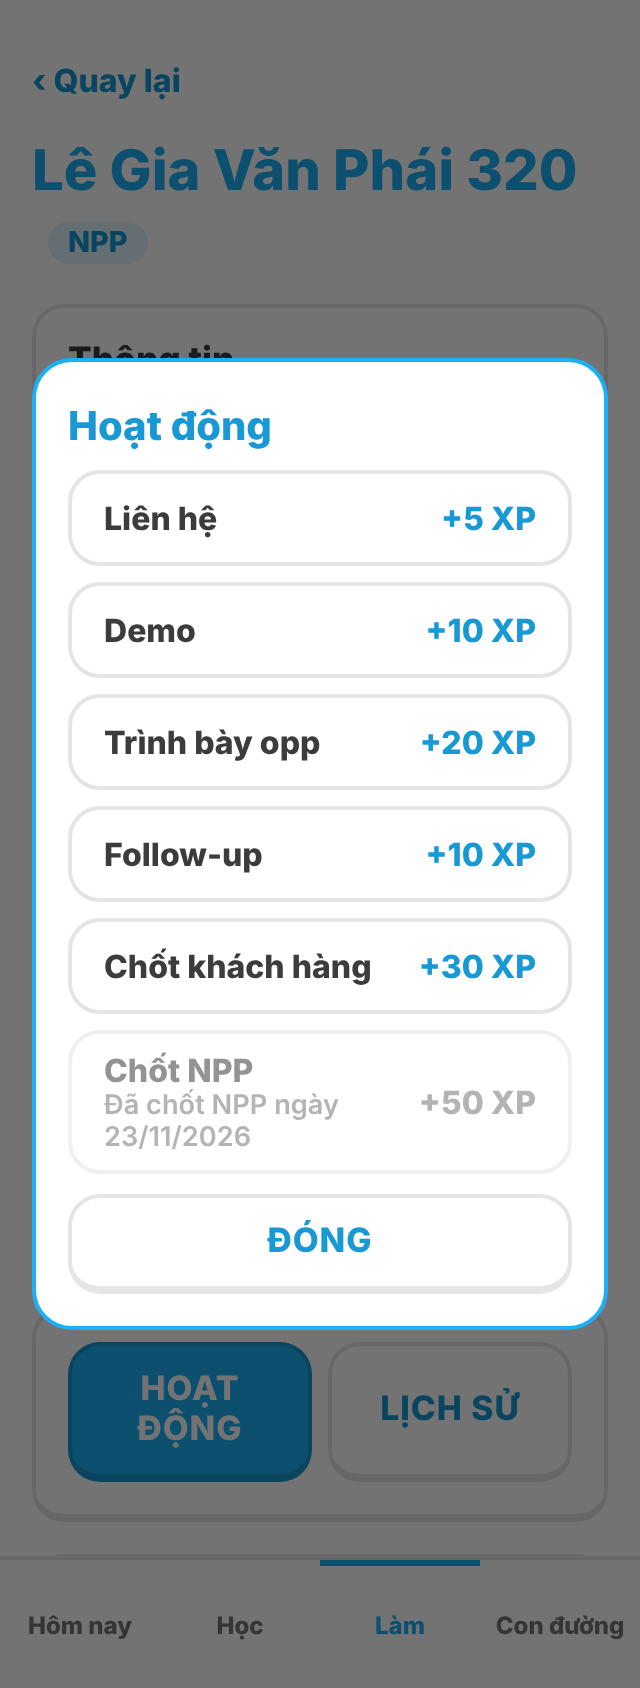
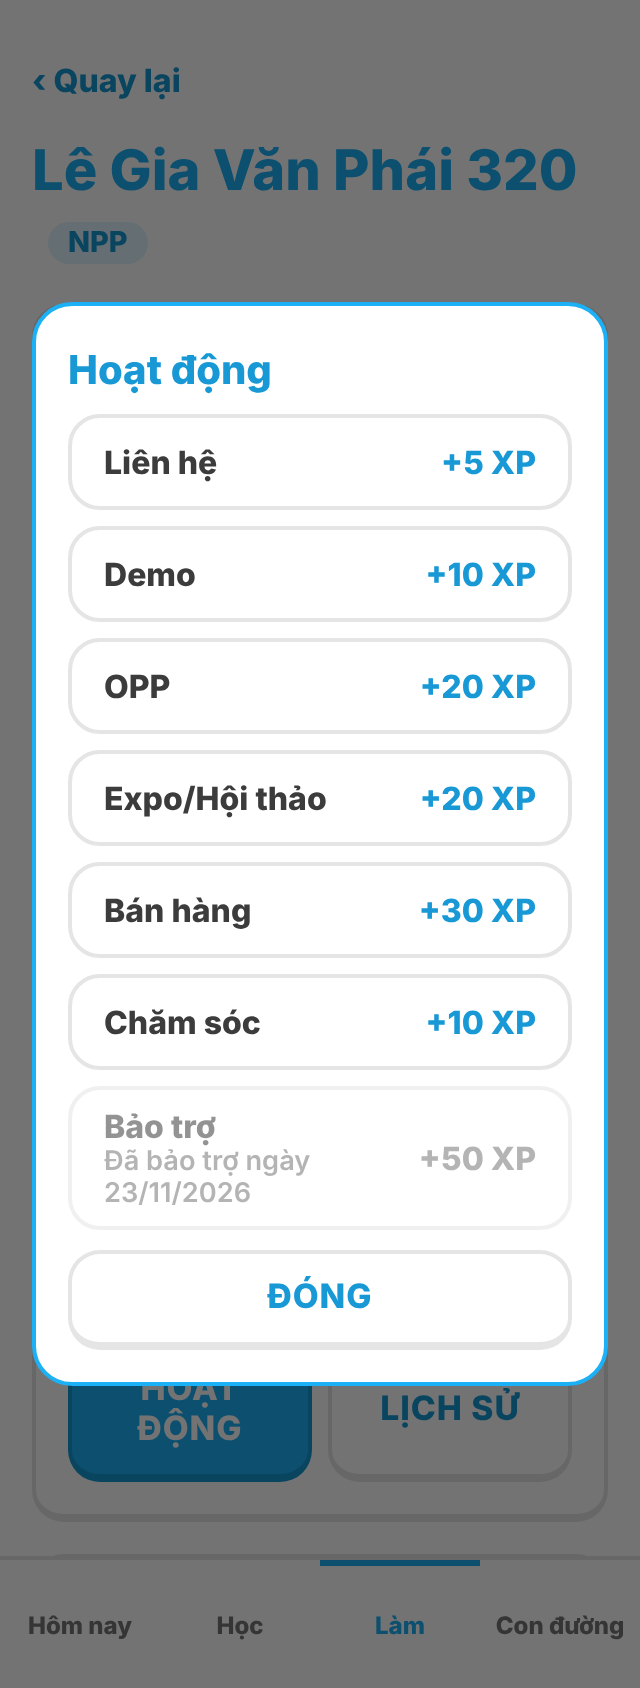
feat: familiar activity names and a new Expo/Hội thảo task
Liên hệ, Demo, OPP, Expo/Hội thảo (new, 20 XP, repeatable), Bán hàng (was
Chốt khách hàng, KH label), Chăm sóc (was Follow-up), Bảo trợ (was Chốt NPP,
one-time, NPP label). Task ids are unchanged, so existing data shows the new
names and XP and milestones stay the same.

GDD: design/gdd/crm.md rule 2 and Tuning Knobs (user decision 2026-11-23)

Claude-Session: https://claude.ai/code/session_01N8trRukAdUtow4mzvQDbn7

Changed region(s): [[0.0312, 0.154, 0.9688, 0.8318], [0.6562, 0.6469, 0.8438, 0.7085]]

diff --git a/tests/unit/people/people-tasks.test.ts b/tests/unit/people/people-tasks.test.ts
@@ -55,13 +55,14 @@ const one = (events: LogEvent[], id = 'a'): Person => {
 const pendingIds = (p: Person): string[] => pendingTasks(p, CONFIG).map((t) => t.id);
 
 describe('config parsing', () => {
-  it('reads the six tasks and the country codes with no problems', () => {
+  it('reads the seven tasks (renamed 2026-11-23, Expo/Hội thảo added) and the country codes with no problems', () => {
     expect(CONFIG.tasks?.map((t) => [t.id, t.xp, t.repeatable, t.label ?? null])).toEqual([
       ['contact', 5, true, null],
       ['demo', 10, true, null],
       ['opp', 20, true, null],
-      ['follow_up', 10, true, null],
+      ['expo', 20, true, null],
       ['new_customer', 30, true, 'KH'],
+      ['follow_up', 10, true, null],
       ['new_npp', 50, false, 'NPP'],
     ]);
     expect(CONFIG.countryCodes?.[0]).toEqual({ code: '+84', name: 'Việt Nam' });
@@ -104,13 +105,13 @@ describe('config parsing', () => {
 });
 
 describe('pendingTasks', () => {
-  it('lists all six for a new person, in config order', () => {
-    expect(pendingIds(one([added('a')]))).toEqual(['contact', 'demo', 'opp', 'follow_up', 'new_customer', 'new_npp']);
+  it('lists all seven for a new person, in config order', () => {
+    expect(pendingIds(one([added('a')]))).toEqual(['contact', 'demo', 'opp', 'expo', 'new_customer', 'follow_up', 'new_npp']);
   });
 
   it('keeps every done task in the list (crm rule 4, 2026-11-22)', () => {
     const p = one([added('a'), task('a', 'contact'), task('a', 'follow_up'), task('a', 'follow_up'), task('a', 'new_npp')]);
-    expect(pendingIds(p)).toEqual(['contact', 'demo', 'opp', 'follow_up', 'new_customer', 'new_npp']);
+    expect(pendingIds(p)).toEqual(['contact', 'demo', 'opp', 'expo', 'new_customer', 'follow_up', 'new_npp']);
   });
 
   it('keeps the task after the completion is compensated', () => {
@@ -123,7 +124,7 @@ describe('pendingTasks', () => {
     const p = one([added('a'), ev('person_archived', { personId: 'a' })]);
     expect(pendingIds(p)).toEqual([]);
     const q = one([added('a'), ev('activity_logged', { activityType: 'gone', taskId: 'gone', xp: 1, personId: 'a' })]);
-    expect(pendingIds(q)).toHaveLength(6);
+    expect(pendingIds(q)).toHaveLength(7);
   });
 });
 
@@ -254,7 +255,7 @@ describe('legacy migration', () => {
     expect(p.label).toBe('KH');
     expect(p.doneTaskIds).toEqual(expect.arrayContaining(['contact', 'demo', 'opp']));
     // Done tasks stay in the list (crm rule 4, 2026-11-22).
-    expect(pendingIds(p)).toEqual(['contact', 'demo', 'opp', 'follow_up', 'new_customer', 'new_npp']);
+    expect(pendingIds(p)).toEqual(['contact', 'demo', 'opp', 'expo', 'new_customer', 'follow_up', 'new_npp']);
   });
 
   it('downline gives NPP, other known stages give no label, unknown stages are ignored', () => {
@@ -368,7 +369,7 @@ describe('person_restored and phone', () => {
     expect(one([added('a'), arch]).archived).toBe(true);
     expect(one([added('a'), arch, rest]).archived).toBe(false);
     expect(one([added('a'), arch, rest, ev('person_archived', { personId: 'a' }, D4)]).archived).toBe(true);
-    expect(pendingIds(one([added('a'), arch, rest]))).toHaveLength(6);
+    expect(pendingIds(one([added('a'), arch, rest]))).toHaveLength(7);
   });
 
   it('phone: initial from person_added, latest person_updated wins, empty number clears', () => {

diff --git a/src/ui/strings.ts b/src/ui/strings.ts
@@ -133,8 +133,8 @@ export const STRINGS = {
   filterArchived: 'Đã lưu trữ',
   filterBarLabel: 'Lọc danh bạ',
   emptyAllTitle: 'Chưa có ai trong danh bạ của bạn',
-  emptyKhBody: 'Chưa có khách hàng nào. Mở một người và bấm "Chốt khách hàng" khi họ mua.',
-  emptyNppBody: 'Chưa có NPP nào. Mở một người và bấm "Chốt NPP" khi họ tham gia đội nhóm.',
+  emptyKhBody: 'Chưa có khách hàng nào. Mở một người và bấm "Hoạt động" → "Bán hàng" khi họ mua.',
+  emptyNppBody: 'Chưa có NPP nào. Mở một người và bấm "Hoạt động" → "Bảo trợ" khi họ tham gia đội nhóm.',
   emptyArchivedBody: 'Chưa có ai được lưu trữ.',
   labelKh: 'KH',
   labelNpp: 'NPP',

diff --git a/design/gdd/crm.md b/design/gdd/crm.md
@@ -34,12 +34,13 @@ Một Danh bạ duy nhất. Mỗi người có một danh sách **việc cần l
    |---|---|---|---|---|
    | `contact` | Liên hệ | 5 | có | – |
    | `demo` | Demo | 10 | có | – |
-   | `opp` | Trình bày opp | 20 | có | – |
-   | `follow_up` | Follow-up | 10 | có | – |
-   | `new_customer` | Chốt khách hàng | 30 | có | KH |
-   | `new_npp` | Chốt NPP | 50 | không | NPP |
+   | `opp` | OPP | 20 | có | – |
+   | `expo` | Expo/Hội thảo | 20 | có | – |
+   | `new_customer` | Bán hàng | 30 | có | KH |
+   | `follow_up` | Chăm sóc | 10 | có | – |
+   | `new_npp` | Bảo trợ | 50 | không | NPP |
 
-   Từ 2026-11-22 mọi việc đều làm lại được (quyết định của người dùng: có việc làm nhiều lần với cùng một người), **trừ Chốt NPP** chỉ làm một lần (quyết định 2026-11-23).
+   Từ 2026-11-22 mọi việc đều làm lại được (quyết định của người dùng: có việc làm nhiều lần với cùng một người), **trừ Chốt NPP** chỉ làm một lần (quyết định 2026-11-23). Tên đổi ngày 2026-11-23 cho quen thuộc (Trình bày opp → OPP, Chốt khách hàng → Bán hàng, Follow-up → Chăm sóc, Chốt NPP → Bảo trợ) và thêm việc mới Expo/Hội thảo; `id` giữ nguyên nên dữ liệu cũ hiện tên mới, XP và mốc không đổi. Trong tài liệu này, "chốt KH" là việc Bán hàng và "chốt NPP" là việc Bảo trợ.
 
    Id `new_customer` được giữ để mốc Con đường (`stages[].milestones`) không đổi.
 3. **Sự kiện** (đều chỉ thêm):
@@ -50,7 +51,7 @@ Một Danh bạ duy nhất. Mỗi người có một danh sách **việc cần l
    - `activity_reassigned {activityId, personId}` (gán lại hoạt động cũ chưa gắn ai)
    - `person_stage_changed {personId, from, to, xp}`: **chỉ còn là sự kiện cũ**, vẫn đọc được và vẫn tính XP; app không ghi thêm.
    - Giai đoạn 2: `person_merged {keepId, mergedId, amwayCode?}`, `person_not_duplicate {personIds: [a, b]}`, `person_transferred_out {personId, name}` (do server ghi khi gộp mã). Tách liên hệ = sự kiện bù của `person_merged` (`payload.compensates`). Không sự kiện nào trong nhóm này có `xp`.
-4. **Hoàn thành một việc** = ghi `activity_logged {activityType: taskId, taskId, xp: xp của việc, personId}`. Mọi việc luôn còn trong danh sách; **mỗi lần hoàn thành cộng đủ XP của việc** (quyết định 2026-11-22). Việc `repeatable: false` (chỉ Chốt NPP, 2026-11-23) làm được một lần: khi đã có một lần chưa bị hoàn tác, dòng của nó vẫn hiện nhưng mờ, không bấm được, kèm ghi chú "Đã chốt NPP ngày …" (ngày lên NPP); hoàn tác lần chốt đó thì bấm lại được. Người đã lưu trữ không hoàn thành được việc. Không còn gợi ý đổi giai đoạn.
+4. **Hoàn thành một việc** = ghi `activity_logged {activityType: taskId, taskId, xp: xp của việc, personId}`. Mọi việc luôn còn trong danh sách; **mỗi lần hoàn thành cộng đủ XP của việc** (quyết định 2026-11-22). Việc `repeatable: false` (chỉ Chốt NPP, 2026-11-23) làm được một lần: khi đã có một lần chưa bị hoàn tác, dòng của nó vẫn hiện nhưng mờ, không bấm được, kèm ghi chú "Đã bảo trợ ngày …" (ngày lên NPP); hoàn tác lần chốt đó thì bấm lại được. Người đã lưu trữ không hoàn thành được việc. Không còn gợi ý đổi giai đoạn.
    - **Nhãn khi chốt lại:** chốt KH cho người đã có KH hoặc NPP thì nhãn không đổi; chốt NPP lại thì vẫn giữ ngày lên NPP của lần chốt NPP đầu tiên chưa bị hoàn tác. Hoàn tác một lần chốt thì nhãn và ngày tính lại từ các lần chốt còn lại.
    - **Mốc Con đường đếm người:** mốc "Khách hàng mới" (`stages[].milestones` với `activityType: new_customer`) đếm số **người khác nhau** có lần chốt KH chưa bị hoàn tác, không đếm số lần bấm, nên dữ liệu hiện có không đổi con số.
 5. **Hoàn tác** một việc bằng sự kiện bù `payload.compensates` (như cách hoàn tác hoạt động): việc hiện lại, XP trừ lại, nhãn được tính lại.
@@ -201,8 +202,8 @@ Công thức tầng, nhánh, điểm sâu và 30x30x4x4 thuộc giai đoạn 2 v
 | `target30x30.contactsTarget` | 250 | 1–5000 | mốc phụ "liên hệ" |
 | `target30x30.customersTarget` | 30 | 1–999 | ngưỡng KH của "đạt 30x30" |
 | `target30x30.f1Target` | 30 | 1–999 | ngưỡng NPP F1 của "đạt 30x30" |
-| `personTasks[].xp` | 5 / 10 / 20 / 10 / 30 / 50 | 0–200 | XP mỗi việc |
-| `personTasks[].repeatable` | mọi việc (từ 2026-11-22) | true/false | việc còn trong danh sách sau khi làm |
+| `personTasks[].xp` | 5 / 10 / 20 / 20 / 30 / 10 / 50 (theo thứ tự luật 2) | 0–200 | XP mỗi việc |
+| `personTasks[].repeatable` | mọi việc trừ `new_npp` (Bảo trợ, 2026-11-23) | true/false | việc còn trong danh sách sau khi làm |
 | `personTasks[].label` | `new_customer` → KH, `new_npp` → NPP | `KH`/`NPP`/không có | nhãn đặt khi làm việc đó |
 | `countryCodes` | `+84` (Việt Nam) mặc định, kèm một số mã phổ biến | ≥1 mục | mã nước chọn khi nhập số |
 | `duplicateNameMaxDistance` | 1 | 0–3 | tên khác nhau bao nhiêu ký tự (sau bỏ dấu) vẫn coi là "có thể trùng"; 0 = chỉ trùng hẳn |
@@ -254,5 +255,5 @@ Công thức tầng, nhánh, điểm sâu và 30x30x4x4 thuộc giai đoạn 2 v
 - **AC-38:** Given một người đã có 2 lần "Follow-up" và 1 "Demo", When bấm "Lịch sử", Then popup hiện số lần mỗi việc, tổng XP, lần đầu và gần nhất, số ngày kể từ lần gần nhất, và danh sách kèm ghi chú, mới nhất trước.
 - **AC-39:** Given Danh bạ đã có người, When thêm một người mới, Then form "Thêm người" thu gọn ngay và người mới hiện trong danh sách.
 - **AC-40:** Given trang chi tiết một người, When mở trang, Then thứ tự là tên → Thông tin → hàng nút "Hoạt động" và "Lịch sử" → lưu trữ; không có danh sách việc hiện sẵn.
-- **AC-41:** Given An đã làm "Demo" một lần, When bấm "Hoạt động", Then popup hiện đủ 6 việc, "Demo" ghi "đã làm 1 lần"; When chọn "Demo" và xác nhận, Then có thêm một `activity_logged` với `xp = 10` và Lịch sử có 2 dòng Demo.
-- **AC-42:** Given An đã chốt NPP ngày D, When bấm "Hoạt động", Then dòng "Chốt NPP" mờ, không bấm được, ghi "Đã chốt NPP ngày D"; When hoàn tác lần chốt đó, Then dòng bấm lại được (2026-11-23). Given An đã là NPP từ ngày D (dữ liệu có hai lần chốt NPP từ trước), Then nhãn vẫn NPP và ngày lên NPP vẫn là D; Given An đã chốt KH 2 lần, When xem mốc "Khách hàng mới", Then An chỉ được đếm 1.
+- **AC-41:** Given An đã làm "Demo" một lần, When bấm "Hoạt động", Then popup hiện đủ 7 việc, "Demo" ghi "đã làm 1 lần"; When chọn "Demo" và xác nhận, Then có thêm một `activity_logged` với `xp = 10` và Lịch sử có 2 dòng Demo.
+- **AC-42:** Given An đã chốt NPP ngày D, When bấm "Hoạt động", Then dòng "Bảo trợ" mờ, không bấm được, ghi "Đã bảo trợ ngày D"; When hoàn tác lần chốt đó, Then dòng bấm lại được (2026-11-23). Given An đã là NPP từ ngày D (dữ liệu có hai lần chốt NPP từ trước), Then nhãn vẫn NPP và ngày lên NPP vẫn là D; Given An đã chốt KH 2 lần, When xem mốc "Khách hàng mới", Then An chỉ được đếm 1.
